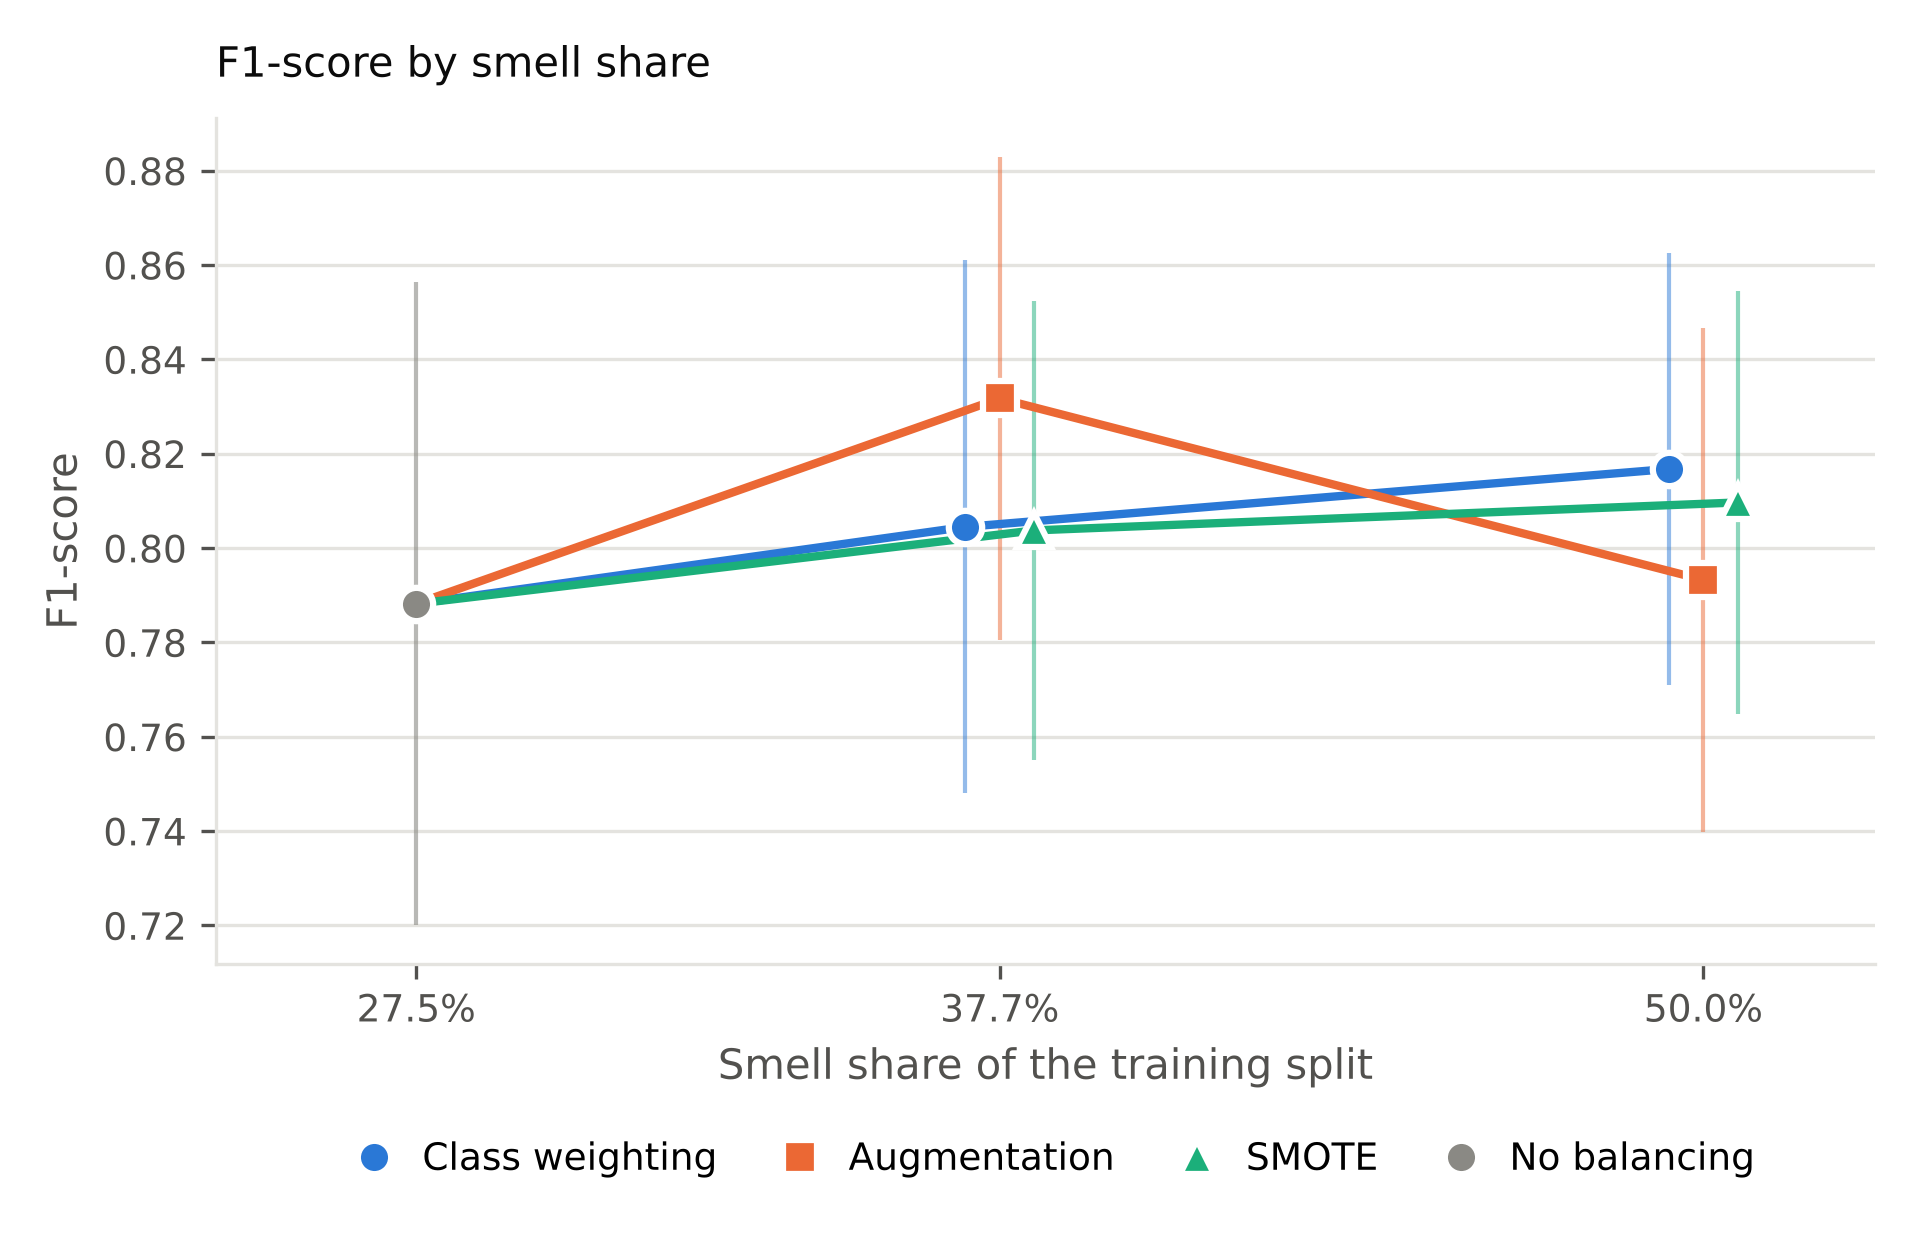
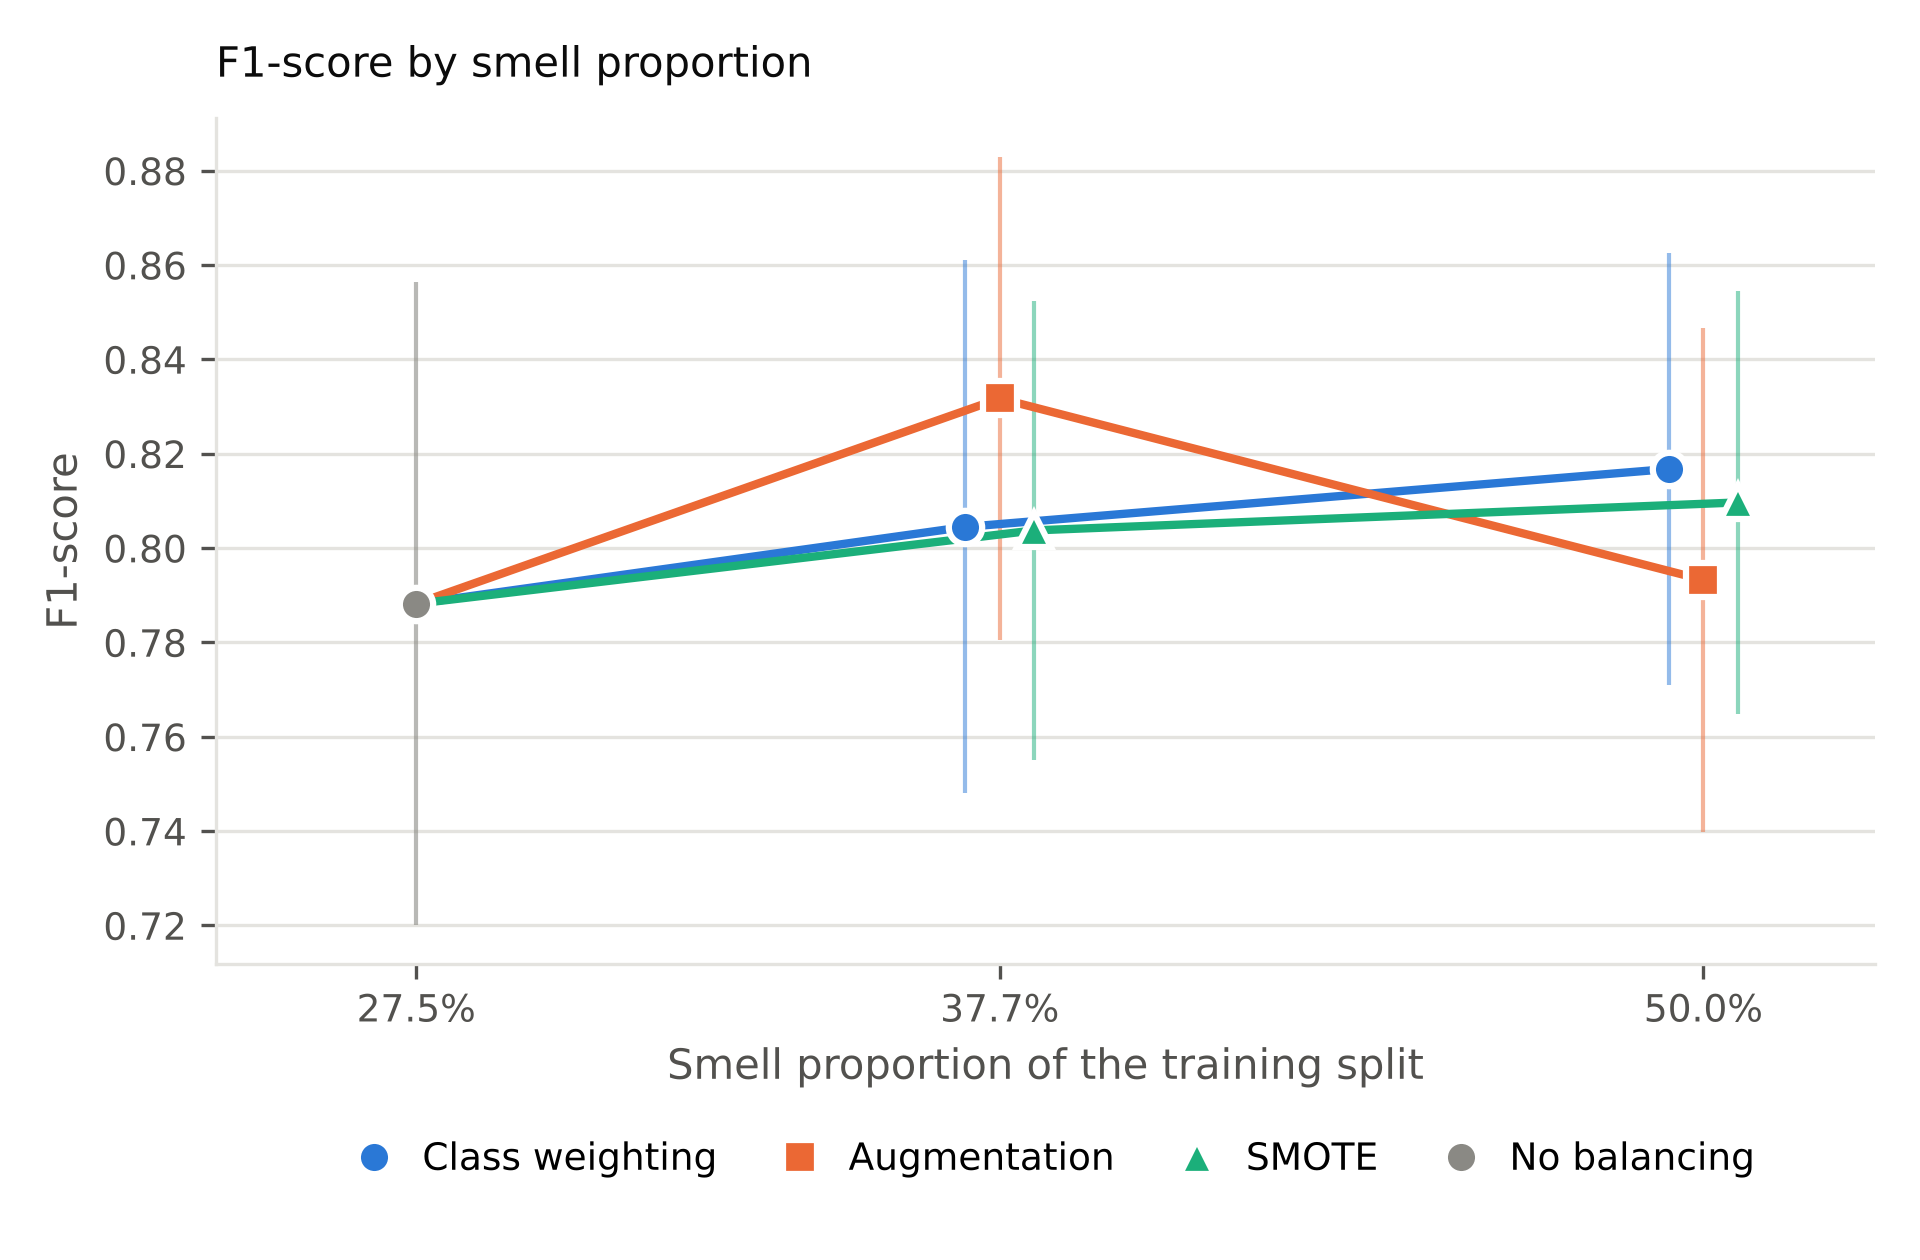
Say smell proportion instead of smell share in figures and tables
Claude-Session: https://claude.ai/code/session_017rhwVyM5rhv5k17AN45Ux5

Changed region(s): [[0.3438, 0.8357, 0.75, 0.8667], [0.3125, 0.031, 0.4375, 0.0619]]

diff --git a/scripts/6_tables.py b/scripts/6_tables.py
@@ -60,7 +60,7 @@ def table2(stats):
 
 
 def table3(results):
-    header = ["Scenario", "Smell share of training split (%)", "Encoder layers", "Training", "Train clean",
+    header = ["Scenario", "Smell proportion of training split (%)", "Encoder layers", "Training", "Train clean",
               "Train smell", "Weight clean", "Weight smell"]
     body = []
     for scenario, share, layers, name in SCENARIOS:
@@ -109,7 +109,7 @@ def table5(model_size):
 
 
 def table6(results):
-    header = ["Scenario", "Smell share of training split (%)", "Encoder layers"] + [
+    header = ["Scenario", "Smell proportion of training split (%)", "Encoder layers"] + [
         x for _, name in METRICS for x in (name, f"{name} sd")] + ["Seeds"]
     body = []
     for scenario, share, layers, name in SCENARIOS:
@@ -124,7 +124,7 @@ def table6(results):
 def table7(results):
     """Training time per run: SMOTE and the head control reuse the encoder of the no-balancing run of the
     same seed, so their total adds that run's time to their head stage."""
-    header = ["Scenario", "Smell share of training split (%)", "Encoder layers", "Own training (s)", "Own training sd",
+    header = ["Scenario", "Smell proportion of training split (%)", "Encoder layers", "Own training (s)", "Own training sd",
               "Total training incl. reused encoder (s)", "Inference on 70 methods (s)", "Peak GPU memory (GB)"]
     base = {(r["seed"], r["layers"]): float(r["train_seconds"]) for r in results if r["scenario"] == "none"}
     body = []

diff --git a/scripts/5_plots.py b/scripts/5_plots.py
@@ -112,12 +112,12 @@ def plot_by_share(rows, metric, label, out):
             markeredgewidth=1.5, linestyle="none", zorder=5, label="No balancing")
     ax.set_xticks(x, [f"{s}%" for s in SHARES])
     ax.set_xlim(24, 53)
-    ax.set_xlabel("Smell share of the training split", color=MUTED)
+    ax.set_xlabel("Smell proportion of the training split", color=MUTED)
     ax.set_ylabel(label, color=MUTED)
     # Below the axis, where no whisker can run through it
     ax.legend(frameon=False, fontsize=9, loc="upper center", bbox_to_anchor=(0.5, -0.17), ncol=4,
               handletextpad=0.3, columnspacing=1.2)
-    style(ax, f"{label} by smell share")
+    style(ax, f"{label} by smell proportion")
     save(plt, fig, out)
 
 

diff --git a/scripts/7_study_flow.py b/scripts/7_study_flow.py
@@ -126,7 +126,7 @@ def draw(c, out):
         ax.text(bx + bw / 2, by + bh - 8.3 - 3.3 * i, f"{pct:g}% smell: {clean} clean + {smell} smell{note}",
                 ha="center", va="center", fontsize=7.5, color=MUTED)
     # Class weighting reaches the share through its loss weights, not through extra samples
-    details = {"Class weighting": ["loss weights", "(effective share)"], "Augmentation": ["14 refactoring", "operators"],
+    details = {"Class weighting": ["loss weights", "(effective proportion)"], "Augmentation": ["14 refactoring", "operators"],
                "SMOTE": ["on embeddings"]}
     for i, (name, color) in enumerate(METHODS):
         x = bx + 2 + i * 20
